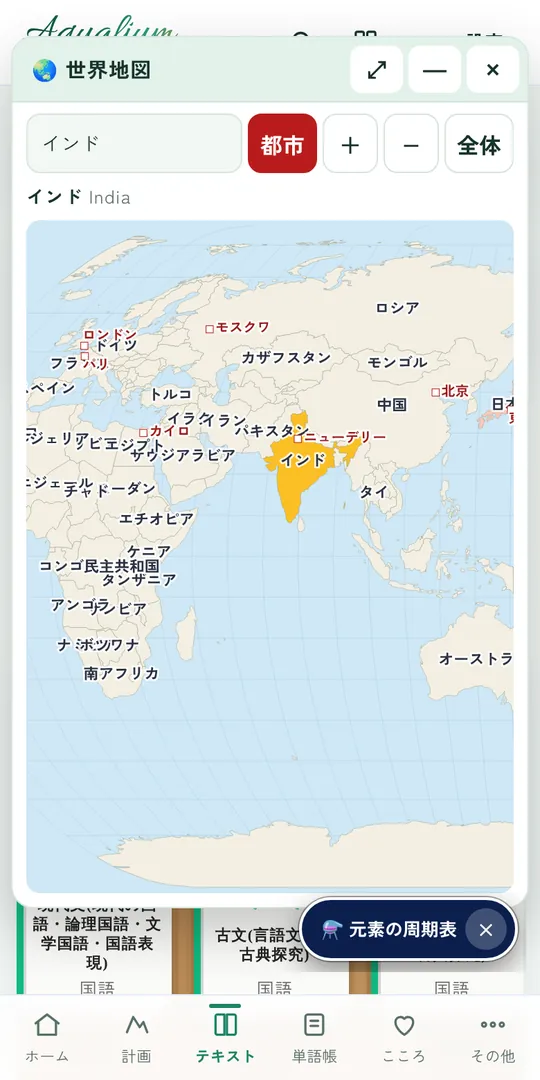
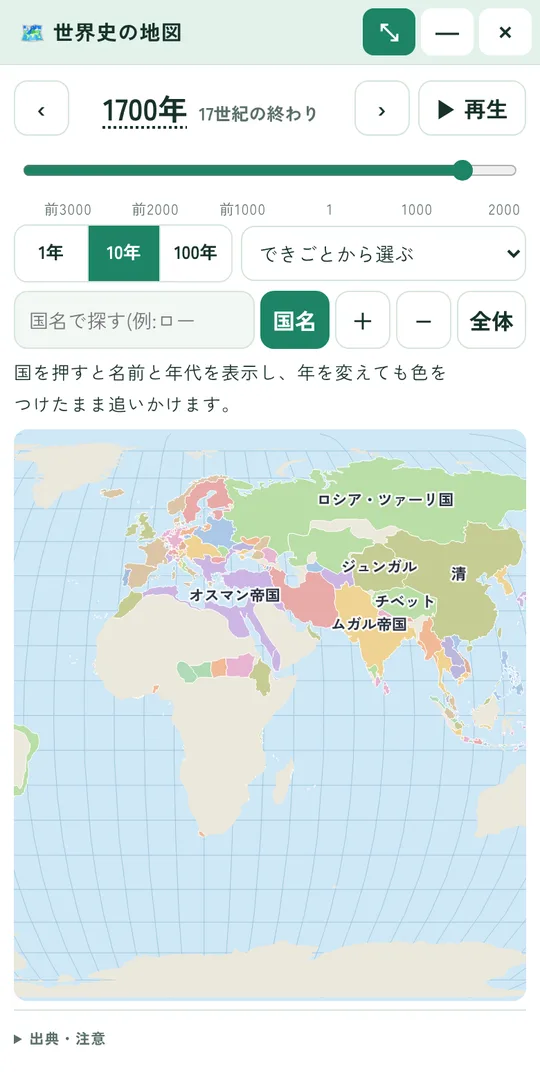
サービス紹介:資料のハイライト3枚目を、国名入りの世界地図から世界史の領土地図(1700年)の写真と説明に差しかえ
Claude-Session: https://claude.ai/code/session_01LBACWHU1zm5FViu8vPc4HC

diff --git a/home.html b/home.html
@@ -166,7 +166,7 @@
     <p>気になる機能は見つかりましたか?<br>まずは無料体験で、<br class="sp">実際に使ってみてください。</p>
     <a href="#contact" class="btn btn-primary">無料体験を申し込む</a>
   </div>
-  <script type="application/json" id="hlData">[{"id": "home", "name": "ホーム", "slides": [{"img": "img/hl/home1.webp?v=20261109e", "t": "次の一手", "d": "いま一番効果の高い学習を、アプリが1つだけ示します。迷ったら、ここを押すだけ。"}, {"img": "img/hl/home3.webp?v=20261109e", "t": "診断・練習", "d": "ホームの上のタブで切りかえ。診断テストで、中学の単元までさかのぼって苦手の原因を探します。"}]}, {"id": "ana", "name": "分析", "slides": [{"img": "img/hl/ana1.webp?v=20261109e", "t": "科目バランス", "d": "現代文・古文・漢文、日本史・世界史…。科目ごとの正答率をレーダーチャートで。1か月前の自分とも比べられます。"}, {"img": "img/hl/ana2.webp?v=20261109e", "t": "ミスの原因", "d": "「ケアレスミス」「覚えていなかった」など、まちがえた理由を集計。いちばん多い原因と対策がわかります。"}, {"img": "img/hl/ana3.webp?v=20261109e", "t": "今週のまとめ", "d": "学習日数・時間・解いた問題・正答率を、先週と比べて表示。伸びたところがひと目でわかります。"}]}, {"id": "txt", "name": "テキスト", "slides": [{"img": "img/hl/txt1.webp?v=20261109e", "t": "科目ごとの本棚", "d": "中学から高校まで、科目ごとの教科書が本棚に並びます。続きからすぐ読めます。"}, {"img": "img/hl/txt2.webp?v=20261109e", "t": "目次", "d": "章と単元の一覧。読んだ単元・しおり・苦手な単元に印がつきます。"}, {"img": "img/hl/txt3.webp?v=20261109e", "t": "知識ゼロから読める本文", "d": "「できるようになること → イメージ → 説明」の順。全286単元に解説があります。"}, {"img": "img/hl/txt4.webp?v=20261109e", "t": "黒板の例題", "d": "考え方を1手順ずつ。読み終えたら、そのまま確認問題を解けます。"}]}, {"id": "zk", "name": "歴史の図解", "slides": [{"img": "img/hl/zk1.webp?v=20261109e", "t": "世界史の流れ", "d": "地域ごとの流れと、世界全体をまきこむ大事件を、色ブロックで1枚に。"}, {"img": "img/hl/zk2.webp?v=20261109e", "t": "模式地図", "d": "清の直轄領・藩部・朝貢国などを、位置関係で整理します。"}, {"img": "img/hl/zk3.webp?v=20261109e", "t": "因果の鎖", "d": "背景 → できごと → 結果 → その後。なぜ起きて、どうなったかがつながります。"}]}, {"id": "kit", "name": "解説・資料", "slides": [{"img": "img/hl/kit1.webp?v=20261109e", "t": "もっと知る", "d": "答えたあとに、くわしい解説と、語句の「ほかの意味」・使い方を表示。1語から何倍も学べます。"}, {"img": "img/hl/kit2.webp?v=20261109e", "t": "元素の周期表", "d": "どのページを開いていても、すぐに呼び出せます。元素を押すと、原子量・分類・常温での状態まで。"}, {"img": "img/hl/kit3.webp?v=20261109e", "t": "国名入りの世界地図", "d": "日本中心の地図に、国名と主な都市(首都など約100)。指で拡大・移動でき、国名で探すとその国まで移動します。最小化して勉強と並べて使えます。"}]}, {"id": "plan", "name": "計画", "slides": [{"img": "img/hl/plan1.webp?v=20261109e", "t": "逆算ロードマップ", "d": "志望校と受験日から、残り日数と目標を自動で設定します。"}, {"img": "img/hl/plan2.webp?v=20261109e", "t": "受験日までのタイムライン", "d": "単元・英単語・古文単語・一問一答の進め方を、1本の線で見渡せます。"}, {"img": "img/hl/plan3.webp?v=20261109e", "t": "単元マップ", "d": "全単元の定着度を色で表示。忘れかけている単元もすぐ見つかります。"}]}, {"id": "voc", "name": "単語帳", "slides": [{"img": "img/hl/voc1.webp?v=20261109e", "t": "単語帳を選ぶ", "d": "中学英単語・Base・Plus・英熟語・早慶上理(学部別)・古文単語。苦手だけを集めた「覚える単語帳」も作れます。"}, {"img": "img/hl/voc2.webp?v=20261109e", "t": "学び方を選ぶ", "d": "赤シート・苦手選別・聞き流し・スワイプなど、気分や場所に合わせて選べます。"}, {"img": "img/hl/voc3.webp?v=20261109e", "t": "4択テスト", "d": "テンポよく答えて、まちがえた語は自動で復習に回ります。"}]}, {"id": "his", "name": "日本史・世界史", "slides": [{"img": "img/hl/his1.webp?v=20261109e", "t": "一問一答", "d": "時代(ヨコ)と分野(タテ)で範囲をしぼって出題。苦手な問題の聞き流しもできます。"}, {"img": "img/hl/his2.webp?v=20261109e", "t": "論述トレーニング", "d": "答えを考えてから、模範解答のキーワードで自己採点します。"}]}, {"id": "mock", "name": "模試モード", "slides": [{"img": "img/hl/mock1.webp?v=20261109e", "t": "本番形式の模試", "d": "時間を計って解き、最後にまとめて採点。科目別の得点率と時間配分を分析します。"}]}, {"id": "tut", "name": "先生・保護者", "slides": [{"img": "img/hl/tut1.webp?v=20261109e", "t": "指導分析レポート", "d": "苦手の原因・ミスの傾向・週のまとめを1枚に。授業や面談でそのまま使えます。"}, {"img": "img/hl/tut2.webp?v=20261109e", "t": "学習の記録", "d": "日別の解答数や科目バランスを、先生・保護者と共有できます。"}]}]</script>
+  <script type="application/json" id="hlData">[{"id": "home", "name": "ホーム", "slides": [{"img": "img/hl/home1.webp?v=20261109e", "t": "次の一手", "d": "いま一番効果の高い学習を、アプリが1つだけ示します。迷ったら、ここを押すだけ。"}, {"img": "img/hl/home3.webp?v=20261109e", "t": "診断・練習", "d": "ホームの上のタブで切りかえ。診断テストで、中学の単元までさかのぼって苦手の原因を探します。"}]}, {"id": "ana", "name": "分析", "slides": [{"img": "img/hl/ana1.webp?v=20261109e", "t": "科目バランス", "d": "現代文・古文・漢文、日本史・世界史…。科目ごとの正答率をレーダーチャートで。1か月前の自分とも比べられます。"}, {"img": "img/hl/ana2.webp?v=20261109e", "t": "ミスの原因", "d": "「ケアレスミス」「覚えていなかった」など、まちがえた理由を集計。いちばん多い原因と対策がわかります。"}, {"img": "img/hl/ana3.webp?v=20261109e", "t": "今週のまとめ", "d": "学習日数・時間・解いた問題・正答率を、先週と比べて表示。伸びたところがひと目でわかります。"}]}, {"id": "txt", "name": "テキスト", "slides": [{"img": "img/hl/txt1.webp?v=20261109e", "t": "科目ごとの本棚", "d": "中学から高校まで、科目ごとの教科書が本棚に並びます。続きからすぐ読めます。"}, {"img": "img/hl/txt2.webp?v=20261109e", "t": "目次", "d": "章と単元の一覧。読んだ単元・しおり・苦手な単元に印がつきます。"}, {"img": "img/hl/txt3.webp?v=20261109e", "t": "知識ゼロから読める本文", "d": "「できるようになること → イメージ → 説明」の順。全286単元に解説があります。"}, {"img": "img/hl/txt4.webp?v=20261109e", "t": "黒板の例題", "d": "考え方を1手順ずつ。読み終えたら、そのまま確認問題を解けます。"}]}, {"id": "zk", "name": "歴史の図解", "slides": [{"img": "img/hl/zk1.webp?v=20261109e", "t": "世界史の流れ", "d": "地域ごとの流れと、世界全体をまきこむ大事件を、色ブロックで1枚に。"}, {"img": "img/hl/zk2.webp?v=20261109e", "t": "模式地図", "d": "清の直轄領・藩部・朝貢国などを、位置関係で整理します。"}, {"img": "img/hl/zk3.webp?v=20261109e", "t": "因果の鎖", "d": "背景 → できごと → 結果 → その後。なぜ起きて、どうなったかがつながります。"}]}, {"id": "kit", "name": "解説・資料", "slides": [{"img": "img/hl/kit1.webp?v=20261109e", "t": "もっと知る", "d": "答えたあとに、くわしい解説と、語句の「ほかの意味」・使い方を表示。1語から何倍も学べます。"}, {"img": "img/hl/kit2.webp?v=20261109e", "t": "元素の周期表", "d": "どのページを開いていても、すぐに呼び出せます。元素を押すと、原子量・分類・常温での状態まで。"}, {"img": "img/hl/kit3.webp?v=20261111a", "t": "世界史の領土地図", "d": "前3400年から2024年まで、国と領土の移り変わりを1年・10年・100年単位で。年を入れるか、できごとを選ぶとその年の勢力図に。国を押すと、年を変えても色をつけたまま追いかけます。"}]}, {"id": "plan", "name": "計画", "slides": [{"img": "img/hl/plan1.webp?v=20261109e", "t": "逆算ロードマップ", "d": "志望校と受験日から、残り日数と目標を自動で設定します。"}, {"img": "img/hl/plan2.webp?v=20261109e", "t": "受験日までのタイムライン", "d": "単元・英単語・古文単語・一問一答の進め方を、1本の線で見渡せます。"}, {"img": "img/hl/plan3.webp?v=20261109e", "t": "単元マップ", "d": "全単元の定着度を色で表示。忘れかけている単元もすぐ見つかります。"}]}, {"id": "voc", "name": "単語帳", "slides": [{"img": "img/hl/voc1.webp?v=20261109e", "t": "単語帳を選ぶ", "d": "中学英単語・Base・Plus・英熟語・早慶上理(学部別)・古文単語。苦手だけを集めた「覚える単語帳」も作れます。"}, {"img": "img/hl/voc2.webp?v=20261109e", "t": "学び方を選ぶ", "d": "赤シート・苦手選別・聞き流し・スワイプなど、気分や場所に合わせて選べます。"}, {"img": "img/hl/voc3.webp?v=20261109e", "t": "4択テスト", "d": "テンポよく答えて、まちがえた語は自動で復習に回ります。"}]}, {"id": "his", "name": "日本史・世界史", "slides": [{"img": "img/hl/his1.webp?v=20261109e", "t": "一問一答", "d": "時代(ヨコ)と分野(タテ)で範囲をしぼって出題。苦手な問題の聞き流しもできます。"}, {"img": "img/hl/his2.webp?v=20261109e", "t": "論述トレーニング", "d": "答えを考えてから、模範解答のキーワードで自己採点します。"}]}, {"id": "mock", "name": "模試モード", "slides": [{"img": "img/hl/mock1.webp?v=20261109e", "t": "本番形式の模試", "d": "時間を計って解き、最後にまとめて採点。科目別の得点率と時間配分を分析します。"}]}, {"id": "tut", "name": "先生・保護者", "slides": [{"img": "img/hl/tut1.webp?v=20261109e", "t": "指導分析レポート", "d": "苦手の原因・ミスの傾向・週のまとめを1枚に。授業や面談でそのまま使えます。"}, {"img": "img/hl/tut2.webp?v=20261109e", "t": "学習の記録", "d": "日別の解答数や科目バランスを、先生・保護者と共有できます。"}]}]</script>
 </section>
 
 <!-- ========== Point ========== -->
